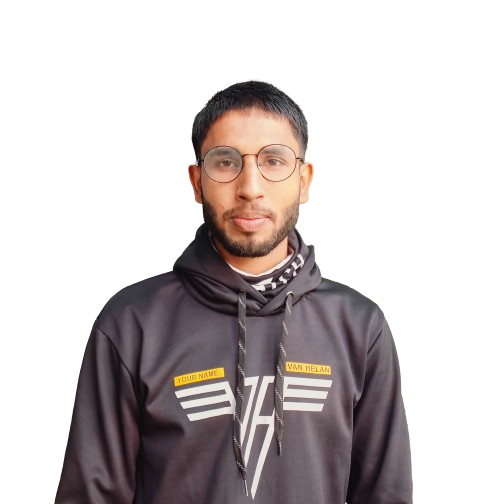
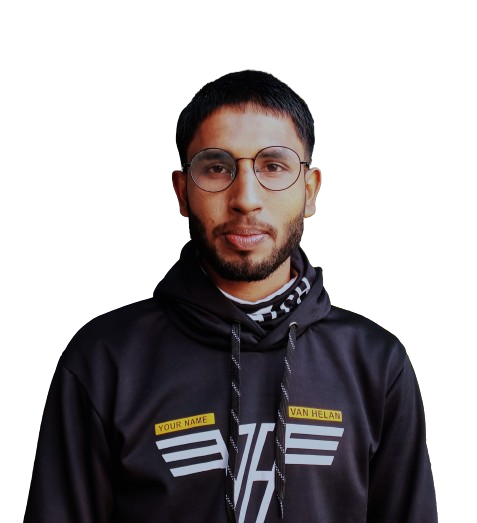
add some style

diff --git a/src/components/footer/Footer.jsx b/src/components/footer/Footer.jsx
@@ -7,14 +7,14 @@ import LocationOnIcon from "@mui/icons-material/LocationOn";
 import CopyrightIcon from "@mui/icons-material/Copyright";
 function Footer() {
   return (
-    <div className="main_footer z-20  flex h-[19vh] w-full flex-col items-end justify-end bg-transparent py-3 text-white md:mb-0">
+    <div className="main_footer z-20 flex h-[19vh] w-full flex-col items-end justify-end bg-transparent p-1 py-3 text-white md:mb-0">
       <ul className="social_icons bb_1 flex w-full items-center justify-end gap-3 pb-5 pr-[6px] sm:gap-5  md:pr-0 ">
         <li>
-          <a href="https://github.com/CodeGreen19">
+          <a href="https://github.com/CodeGreen19" target="_blank">
             <img src={github} className="w-[22px] md:w-[29px]" alt="youtube" />
           </a>
         </li>
-        <li>
+        {/* <li>
           <a href="https://www.instagram.com/hmnajmul24?igshid=YTQwZjQ0NmI0OA%3D%3D">
             <img
               src={instagram}
@@ -22,19 +22,22 @@ function Footer() {
               alt="instagram"
             />
           </a>
-        </li>
+        </li> */}
 
-        <li>
-          <a href="https://web.facebook.com/the.earn.way?mibextid=ZbWKwL&_rdc=1&_rdr">
+        {/* <li>
+          <a href="https://twitter.com/AhmedDev19s">
             <img
               src={twitter}
               className=" w-[21px] md:w-[33px]"
-              alt="facebook"
+              alt="twitter"
             />
           </a>
-        </li>
+        </li> */}
         <li>
-          <a href="https://www.linkedin.com/in/code-green-25a2872a8/">
+          <a
+            href="https://www.linkedin.com/in/ahmed-dev-32a9252ab/"
+            target="_blank"
+          >
             <img
               src={linkedin}
               className="w-[21px] md:w-[26px]"

diff --git a/src/components/need/Need.jsx b/src/components/need/Need.jsx
@@ -5,20 +5,20 @@ import ecommerce from "../../assets/projectImg/ecommerce2.png";
 export const projectsArr = [
   {
     name: "Youtube Clone",
-    live_url: "https://share-space-q3c1.onrender.com",
-    github_url: "https://github.com/CodeGreen19/social-media-app",
+    live_url: "https://codegreen-youtube.onrender.com",
+    github_url: "https://github.com/CodeGreen19/youtube-clone",
     img_url: yt_clone,
   },
   {
-    name: "Social Media app",
+    name: "Social Media App",
     live_url: "https://share-space-q3c1.onrender.com",
     github_url: "https://github.com/CodeGreen19/social-media-app",
     img_url: social_img,
   },
   {
-    name: "Ecommerce app",
-    live_url: "https://share-space-q3c1.onrender.com",
-    github_url: "https://github.com/CodeGreen19/social-media-app",
+    name: "Ecommerce Web App",
+    live_url: "https://shoe-safar-ecommerce.onrender.com",
+    github_url: "https://github.com/CodeGreen19/ecommerce-web",
     img_url: ecommerce,
   },
 ];

diff --git a/src/components/hero/Hero.jsx b/src/components/hero/Hero.jsx
@@ -44,8 +44,14 @@ function Hero() {
       </div>
       <div className=" b_1 w-full md:w-[40%]">
         <div className="pofile_img_box relative w-full bg-[#202020]">
-          <img src={myself} alt="hoddie_man" className="profile_img w-full " />
-          <div className="b_1 absolute left-[10%] right-[10%] top-[70%]  md:left-[-50px] md:right-[40%]">
+          <div className=" profile_img_sub_box p-[50px] md:p-[70px]">
+            <img
+              src={myself}
+              alt="hoddie_man"
+              className="profile_img b_1 w-full "
+            />
+          </div>
+          <div className="b_1 absolute left-[5%] right-[5%] top-[70%]  md:left-[-50px] md:right-[40%]">
             <ul className="effect_text hero_overlay_box flex h-[100px] flex-col items-start justify-evenly bg-[#181818]  text-[0.8rem]  md:text-[1rem]">
               <li>full-stack developer</li>
               <li>

diff --git a/src/components/navbar/Navbar.jsx b/src/components/navbar/Navbar.jsx
@@ -14,8 +14,8 @@ function Navbar({ scrollTo }) {
     <div className="nav_container flex w-full items-center justify-between py-3 pr-2 md:py-3 md:pr-0">
       <div className=" w-[155px] p-1 md:w-[200px]">
         <h1 className="effect_text md:ls_3 logo_text font-sofia text-[1.9rem] font-[600] text-[#ffffff] md:text-[2.3rem] md:font-[500]">
-          Code<span className="text-[red]">G</span>reen
-          <span className="ml-1 text-[red]">.</span>
+          Code<span className="text-[#37b0d8]">G</span>reen
+          <span className="ml-1 text-[#33adc8]">.</span>
         </h1>
       </div>
       <ul

diff --git a/src/App.css b/src/App.css
@@ -91,11 +91,26 @@ body {
 .profile_img {
   transform: translateX(-50px);
   transition: all 0.5s;
+  filter: drop-shadow(1px 1px 1px rgb(15, 15, 15));
+  position: relative;
+  background: #111111;
 }
 .hero_effect.add .profile_img {
   transform: translateX(0px);
   transition: all 0.5s;
 }
+/* .profile_img_sub_box::before {
+  position: absolute;
+  right: 70px;
+  top: 70px;
+  content: "";
+  height: 10px;
+  width: 10px;
+  border-radius: 50%;
+  background-color: #00acbc;
+  z-index: 30;
+} */
+
 /* hero button effect  */
 .hero_btn_box button:nth-child(1),
 .hero_btn_box button:nth-child(2) {

diff --git a/index.html b/index.html
@@ -2,7 +2,7 @@
 <html lang="en">
   <head>
     <meta charset="UTF-8" />
-    <link rel="icon" type="image/ico" href="/favicon.ico" />
+    <link rel="icon" type="image/ico" href="/fav.svg" />
     <meta name="viewport" content="width=device-width, initial-scale=1.0" />
     <title>CodeGreen</title>
   </head>
